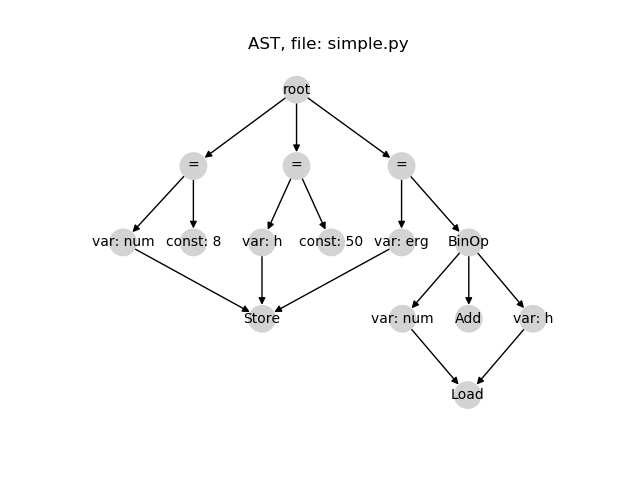
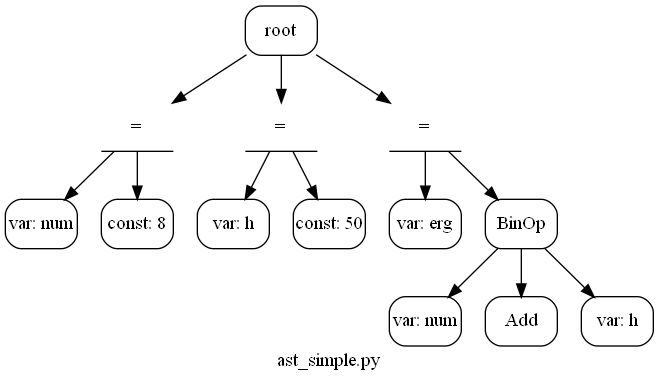
Changes on graph

diff --git a/main/main.py b/main/main.py
@@ -1,46 +1,66 @@
 import ast
 import os
+from typing import Any, Callable
+
+import pygraphviz as pgv
+import difflib as diff
 import networkx as nx
 import matplotlib.pyplot as plt
 from colorama import Fore, Back, Style
 from networkx.drawing.nx_agraph import graphviz_layout
 
 
-def node_str_generator(node):
-    if isinstance(node, ast.Module):
-        return "root" + str(node)
-    elif isinstance(node, ast.Assign):
-        return "=" + str(node)
-    elif isinstance(node, ast.Name):
-        # node = ast.Name(node)
-        attributes = node.__dict__
+def node_str_generator(ast_node):
+    attribute_dict = dict()
+    attribute_dict["margin"] = "0,0"
+    label = ""
+    if isinstance(ast_node, ast.Module):
+        label = "root"
+        attribute_dict["label"] = label
+        return label + str(ast_node), attribute_dict
+    elif isinstance(ast_node, ast.Assign):
+        label = "="
+        attribute_dict["label"] = label
+        attribute_dict["shape"] = "underline"
+        return label + str(ast_node), attribute_dict
+    elif isinstance(ast_node, ast.Name):
+        attributes = ast_node.__dict__
         ident = attributes['id']
-        return "var: " + ident + str(node)
-    elif isinstance(node, ast.Constant):
-        attributes = node.__dict__
+        label = "var: " + ident
+        attribute_dict["label"] = label
+        return label + str(ast_node), attribute_dict
+    elif isinstance(ast_node, ast.Constant):
+        attributes = ast_node.__dict__
         value = attributes['value']
-        return "const: " + str(value) + str(node)
+        label = "const: " + str(value)
+        attribute_dict["label"] = label
+        return label + str(ast_node), attribute_dict
     else:
-        print("dd")
-        return type(node).__name__ + str(node)
+        label = type(ast_node).__name__
+        attribute_dict["label"] = label
+        return label + str(ast_node), attribute_dict
+
+
+# Return false if node is from type ast.Load or ast.Store
+type_check_ld_st: Callable[[ast.AST], bool] = lambda arg: not (isinstance(arg, ast.Load) or isinstance(arg, ast.Store))
 
 
 # Traverse over tree and add every new node to the list and extend edge list with every
 # traversal in child nodes
 def node_traversal(nd):
-    node_str = node_str_generator(nd)
-    if not (node_str in node_list):
-        node_list.append(node_str)
+    node_str, attribute_dict = node_str_generator(nd)
+    if not (node_str in node_list) and type_check_ld_st(nd):
+        node_list.append((node_str, attribute_dict))
     if isinstance(nd, ast.AST):
         lst = ast.iter_fields(nd)
         for field, value in lst:
             if isinstance(value, list):
                 for child in value:
-                    if isinstance(child, ast.AST):
-                        edge_list.append((node_str_generator(nd), node_str_generator(child)))
+                    if isinstance(child, ast.AST) and type_check_ld_st(child):
+                        edge_list.append((node_str_generator(nd)[0], node_str_generator(child)[0]))
                         node_traversal(child)
-            elif isinstance(value, ast.AST):
-                edge_list.append((node_str_generator(nd), node_str_generator(value)))
+            elif isinstance(value, ast.AST) and type_check_ld_st(value):
+                edge_list.append((node_str_generator(nd)[0], node_str_generator(value)[0]))
                 node_traversal(value)
 
 
@@ -72,30 +92,25 @@ print(byte_str)
 ast_tree = ast.parse(source=byte_str)
 node_traversal(ast_tree)
 
-# Create graph from edge list and nodelist using the dot-layout
 # TODO: Style tree such it can be read properly
-plt.title('AST, file: ' + file_in_use)
+
+# Clean node and edge list
 
 
-graph = nx.DiGraph()
-graph.add_edges_from(edge_list)
-pos = graphviz_layout(graph, prog='dot')
-labels = dict()
-for node in node_list:
-    labels[node] = node.split('<')[0]
-nx.draw(graph, pos,
-        with_labels=True,
-        labels=labels,
-        edgecolors='none',
-        node_color='lightgray',
-        font_size=10,
-        # so^>v<dph8
-        node_shape='o',
-        node_size=400)
+# Create graph from edge list and nodelist using the dot-layout
+G = pgv.AGraph(strict=False, directed=True, label="ast_" + file_in_use)
+# Set some default attributes
+G.node_attr["shape"] = "Mrecord"
 
-# Save plot in file and show in IDE
-plt.savefig('ast_' + file_in_use + '.png')
-plt.show()
+
+# Add edges and nodes with labels
+for (node, attr_dict) in node_list:
+    G.add_node(node, **attr_dict)
+G.add_edges_from(edge_list)
+G.layout(prog='dot')
+
+
+G.draw('ast_' + file_in_use + '.png')
 
 # Close file reader
 os.close(file)
